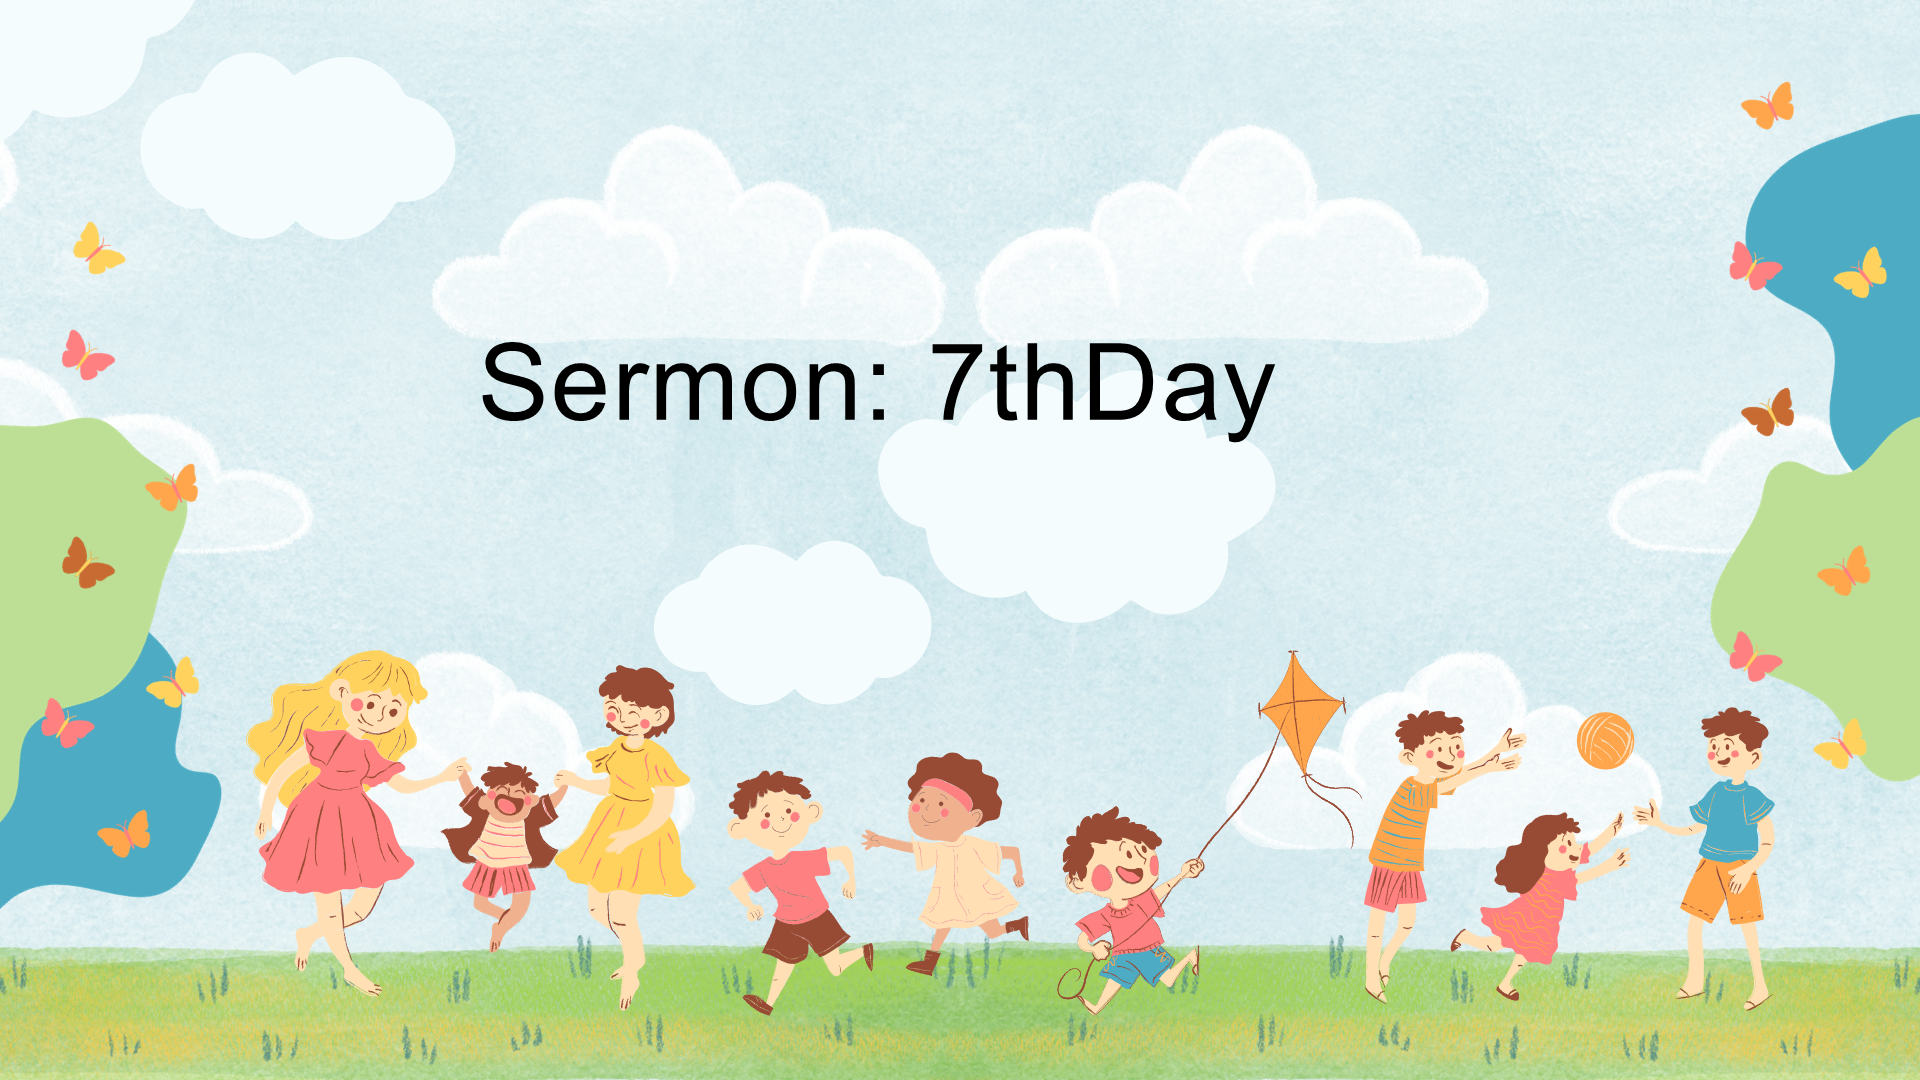
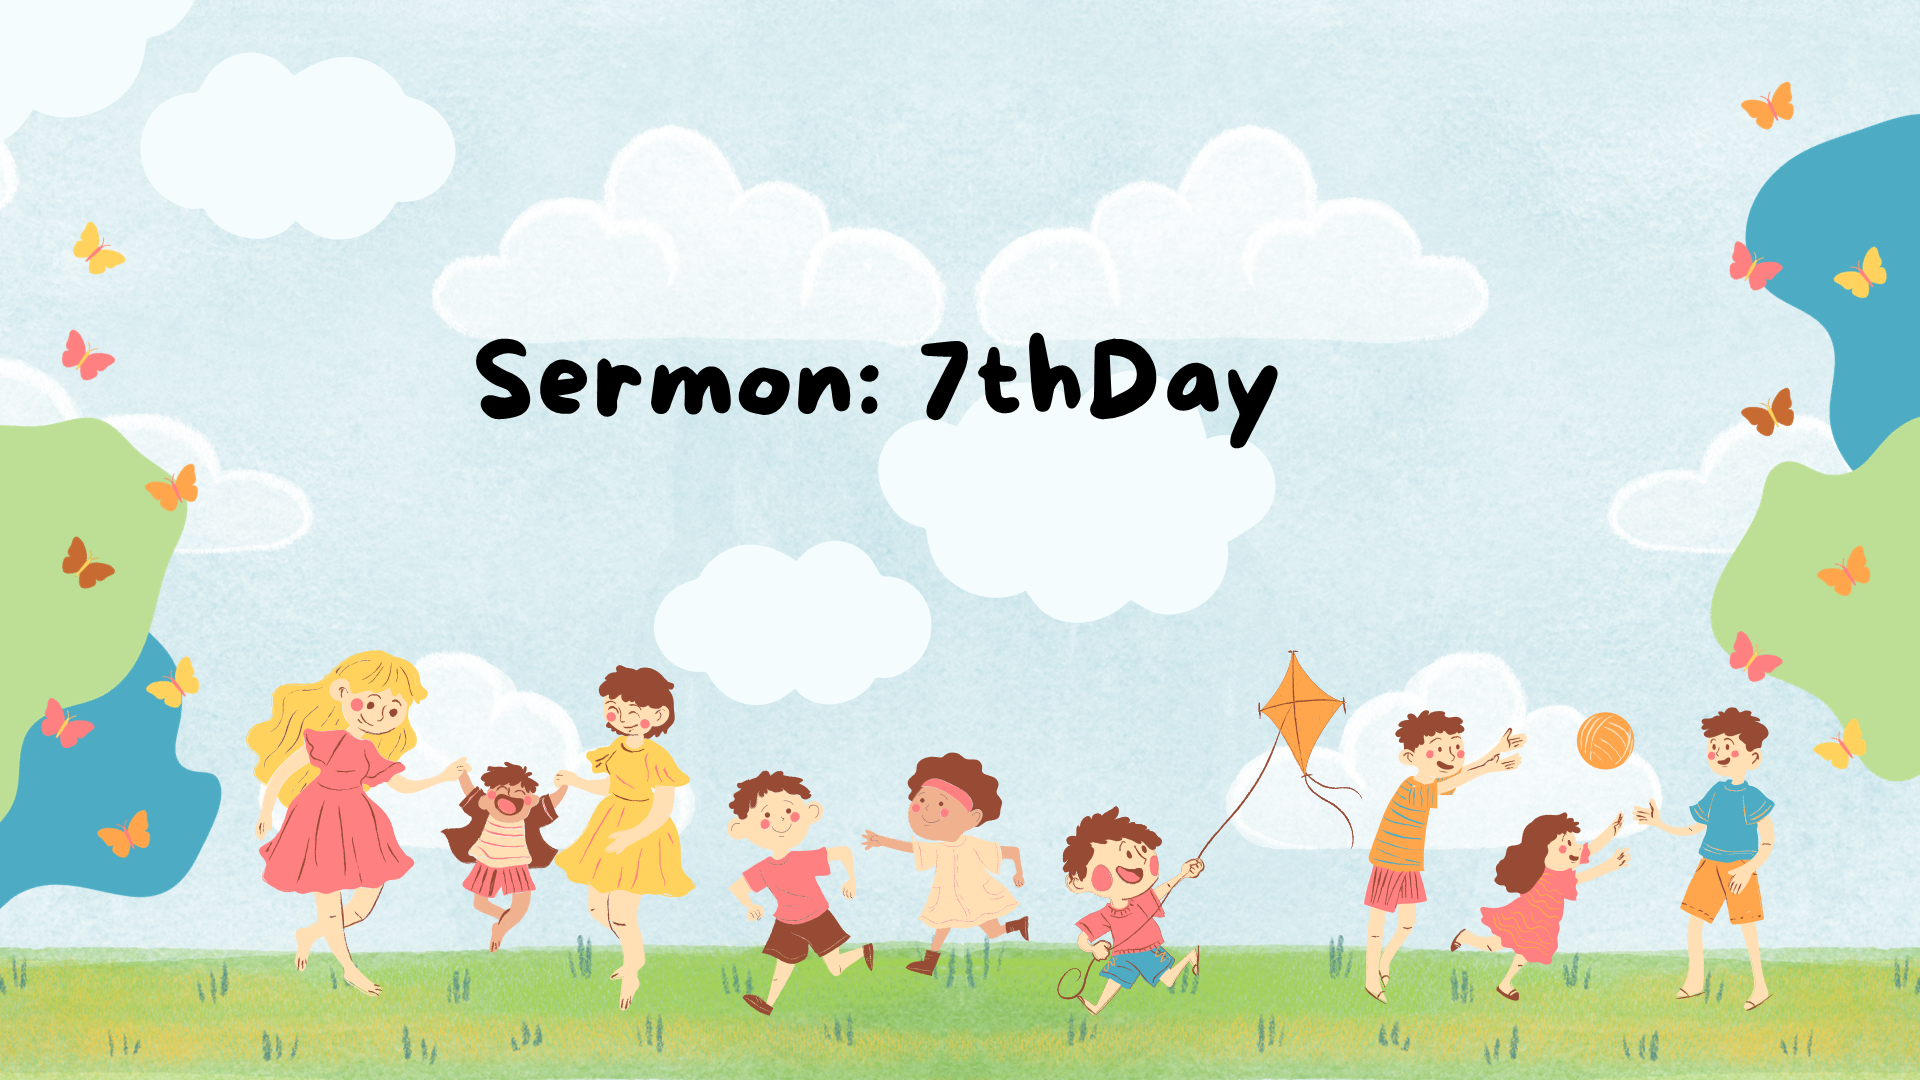
change default fonts

Changed region(s): [[0.25, 0.3056, 0.6875, 0.4278]]

diff --git a/app/control.html b/app/control.html
@@ -597,15 +597,15 @@
         // Clear loading option
         fontSelect.innerHTML = '';
         
-        // Add default option
-        const defaultOption = document.createElement('option');
-        defaultOption.value = 'Arial';
-        defaultOption.textContent = 'Arial (Default)';
-        fontSelect.appendChild(defaultOption);
+  // Add default option (use Advent Sans Logo as default)
+  const defaultOption = document.createElement('option');
+  defaultOption.value = 'Advent Sans Logo';
+  defaultOption.textContent = 'Advent Sans Logo (Default)';
+  fontSelect.appendChild(defaultOption);
         
         // Populate font selector
         fonts.forEach(font => {
-          if (font !== 'Arial') { // Skip Arial since we already added it as default
+          if (font !== 'Advent Sans Logo') { // Skip Advent Sans Logo since we already added it as default
             const option = document.createElement('option');
             option.value = font;
             option.textContent = font;
@@ -622,8 +622,8 @@
           // Apply saved font immediately
           ipcRenderer.send('set-font', savedFont);
         } else {
-          // Set default font
-          ipcRenderer.send('set-font', 'Arial');
+          // Set default font to Advent Sans Logo
+          ipcRenderer.send('set-font', 'Advent Sans Logo');
         }
       }
 
@@ -903,7 +903,9 @@
                         fontSizePx = Math.max(10, Math.floor((el.fontSize / srcW) * thumbW));
                       }
                     }
-                    ctx.font = `bold ${fontSizePx}px Arial`;
+                    // Use the currently selected display font (fallback to Advent Sans Logo)
+                    const thumbFont = localStorage.getItem('display-font') || 'Advent Sans Logo';
+                    ctx.font = `bold ${fontSizePx}px "${thumbFont}", Arial`;
                     ctx.fillStyle = el.color || '#fff';
                     ctx.textBaseline = 'top';
 
@@ -940,7 +942,8 @@
                 });
               }
               if (!drawn) {
-                ctx.font = 'bold 28px Arial';
+                const thumbFont = localStorage.getItem('display-font') || 'Advent Sans Logo';
+                ctx.font = `bold 28px "${thumbFont}", Arial`;
                 ctx.fillStyle = '#888';
                 ctx.textAlign = 'center';
                 ctx.textBaseline = 'middle';

diff --git a/app/output.html b/app/output.html
@@ -22,7 +22,7 @@
   </head>
   <body style="background:black; color:white; margin:0; padding:0; overflow:hidden; height:100vh; width:100vw; background-size:cover; background-position:center; background-repeat:no-repeat;">
     <div id="lyrics" style="white-space:pre-wrap; height:100vh; width:100vw; display:flex; align-items:center; justify-content:center; line-height:1.6; padding:3vw; box-sizing:border-box; text-align:center; overflow:hidden; background:rgba(0,0,0,0.5); text-shadow: 2px 2px 4px rgba(0,0,0,0.8);">
-      <div id="initial-text" style="max-height:100%; max-width:100%; overflow:hidden; font-size:10vw; font-weight:bold; letter-spacing:0.2em; font-family: Arial, sans-serif;">HAPPY SABBATH</div>
+  <div id="initial-text" style="max-height:100%; max-width:100%; overflow:hidden; font-size:10vw; font-weight:bold; letter-spacing:0.2em; font-family: 'Advent Sans Logo', Arial, sans-serif;">HAPPY SABBATH</div>
     </div>
     <script>
       const { ipcRenderer } = require('electron');
@@ -46,7 +46,7 @@
   // Declare global variables at the top
   let fontSizeMultiplier = 1.0;
   let currentSlideData = null;
-  let currentFontFamily = 'Arial';
+  let currentFontFamily = 'Advent Sans Logo';
   let originalFontSizes = new Map();
       // Debug overlay (temporary) - set to true to show center marker and bounding box
       // Default false so overlay doesn't show unless toggled
@@ -126,7 +126,7 @@
       // Helper function to format font family for CSS
       function getFontFamilyCSS(fontName) {
         // If font name contains spaces or special characters, wrap in quotes
-        if (!fontName) return 'Arial, sans-serif';
+        if (!fontName) return '"Advent Sans Logo", Arial, sans-serif';
         
         // Always quote the font name to ensure it works properly
         return `"${fontName}", Arial, sans-serif`;
@@ -154,7 +154,7 @@
         console.log('New font:', fontFamily);
         console.log('Font available?', isFontAvailable(fontFamily));
         
-        currentFontFamily = fontFamily || 'Arial';
+  currentFontFamily = fontFamily || 'Advent Sans Logo';
         
         console.log('Font set to:', currentFontFamily);
         console.log('CSS will use:', getFontFamilyCSS(currentFontFamily));

diff --git a/app/main.js b/app/main.js
@@ -1425,25 +1425,31 @@ ipcMain.on('set-font', (event, fontFamily) => {
     console.log('Sending update-font to projector window');
     
     // Use executeJavaScript to directly update the font (more reliable)
-    projectorWindow.webContents.executeJavaScript(`
-      if (typeof currentFontFamily !== 'undefined') {
-        console.log('Direct JS execution - setting font to: ${fontFamily}');
-        currentFontFamily = '${fontFamily}';
-        
-        // Update initial text if visible
-        const initialText = document.getElementById('initial-text');
-        if (initialText) {
-          initialText.style.fontFamily = '"${fontFamily}", Arial, sans-serif';
+    const __safeFont = JSON.stringify(fontFamily);
+    projectorWindow.webContents.executeJavaScript(`(function(){
+      const f = ${__safeFont};
+      try {
+        if (typeof currentFontFamily !== 'undefined') {
+          console.log('Direct JS execution - setting font to:', f);
+          currentFontFamily = f;
+
+          // Update initial text if visible
+          const initialText = document.getElementById('initial-text');
+          if (initialText) {
+            initialText.style.fontFamily = '"' + f + '", Arial, sans-serif';
+          }
+
+          // Re-render current slide if exists
+          if (typeof currentSlideData !== 'undefined' && currentSlideData !== null) {
+            renderSlideWithFontSize(currentSlideData);
+          }
+
+          console.log('Font applied via direct execution');
         }
-        
-        // Re-render current slide if exists
-        if (typeof currentSlideData !== 'undefined' && currentSlideData !== null) {
-          renderSlideWithFontSize(currentSlideData);
-        }
-        
-        console.log('Font applied via direct execution');
+      } catch (e) {
+        console.error('Direct JS font update failed:', e);
       }
-    `).then(() => {
+    })();`).then(() => {
       console.log('Font update executed successfully');
     }).catch(err => {
       console.error('Error executing font update:', err);
